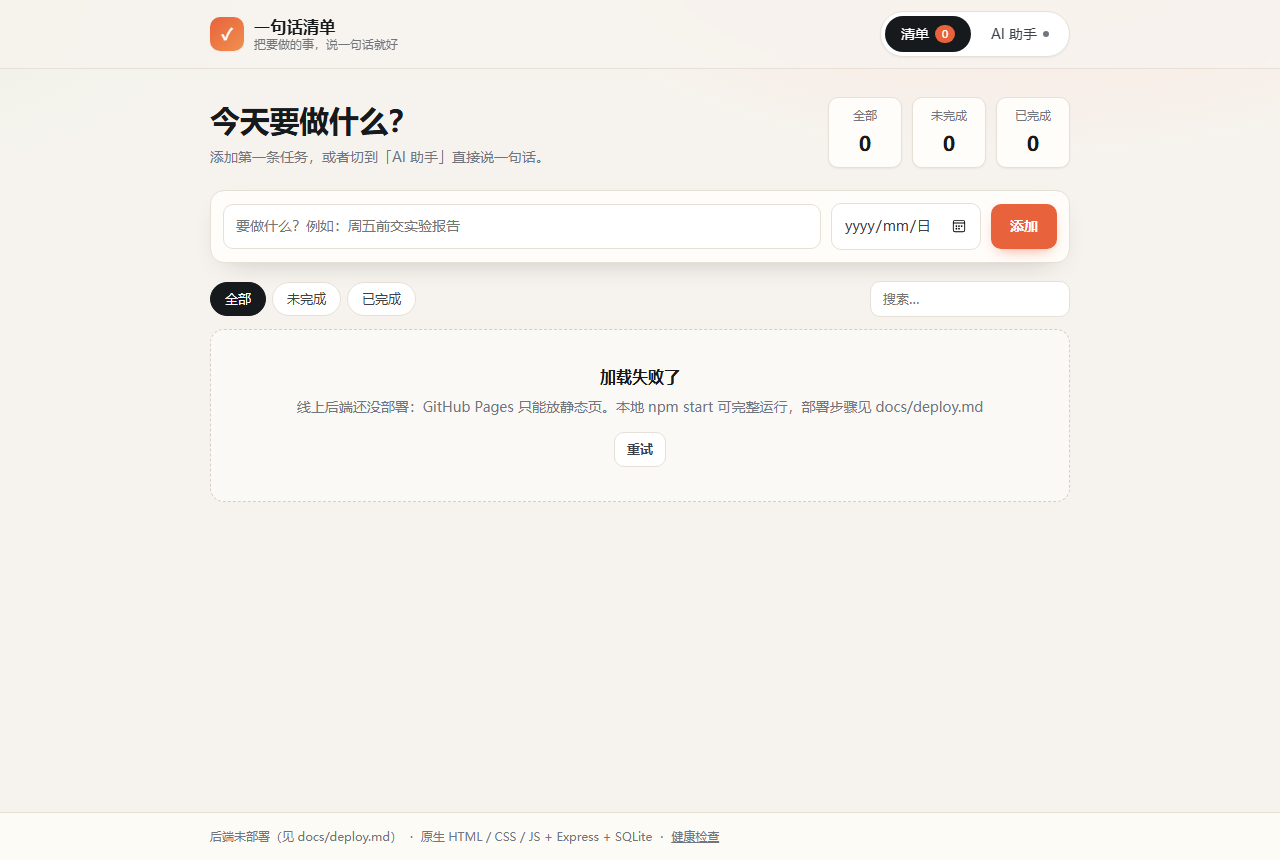
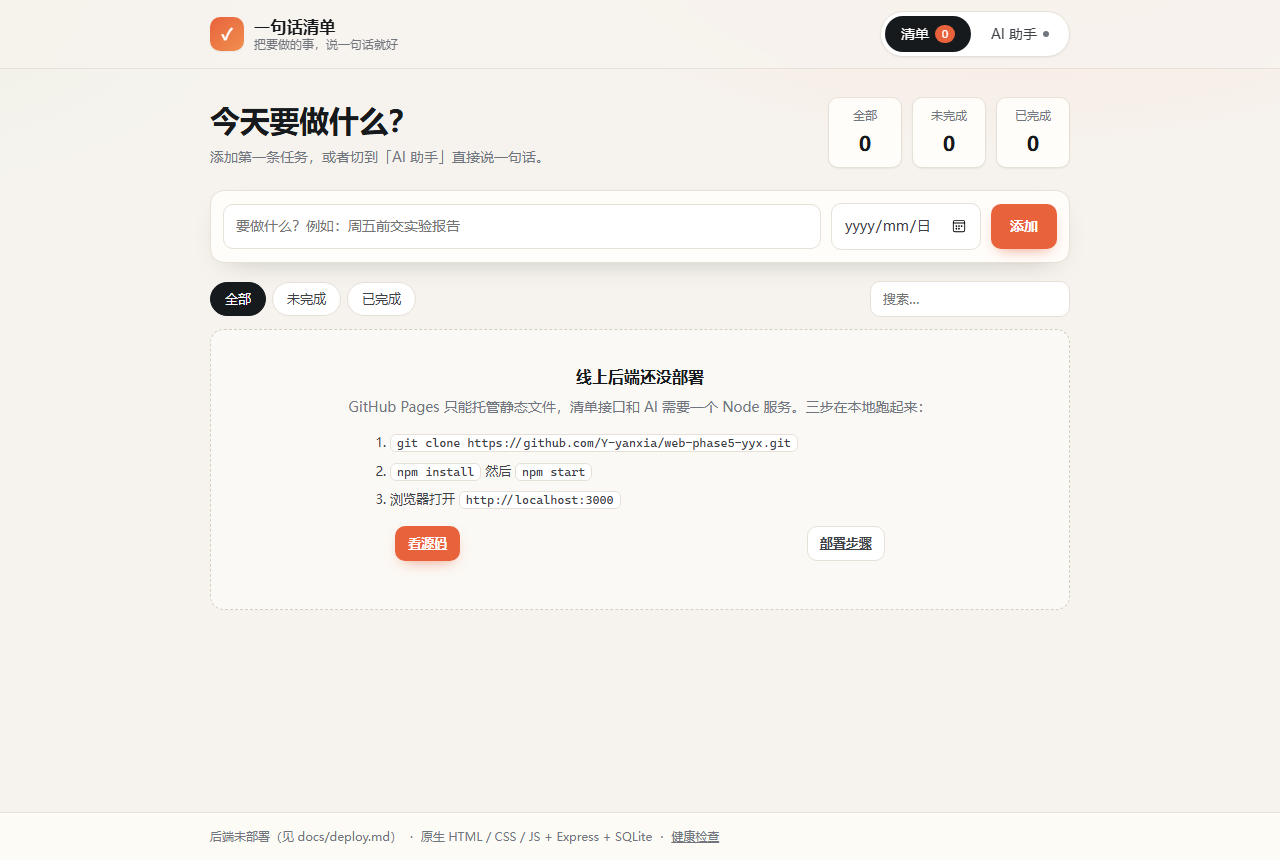
fix(ui): 并排按钮不再被 margin:auto 推到两端

Changed region(s): [[0.2188, 0.4233, 0.7812, 0.6651], [0.625, 0.6047, 0.6875, 0.6349]]

diff --git a/public/style.css b/public/style.css
@@ -651,6 +651,11 @@ main.wrap {
   margin: 0;
 }
 
+/* 并排按钮不要各自居中，否则会被推到两端 */
+.state-links .btn {
+  margin: 0;
+}
+
 .skeleton {
   list-style: none;
   margin: 0;
